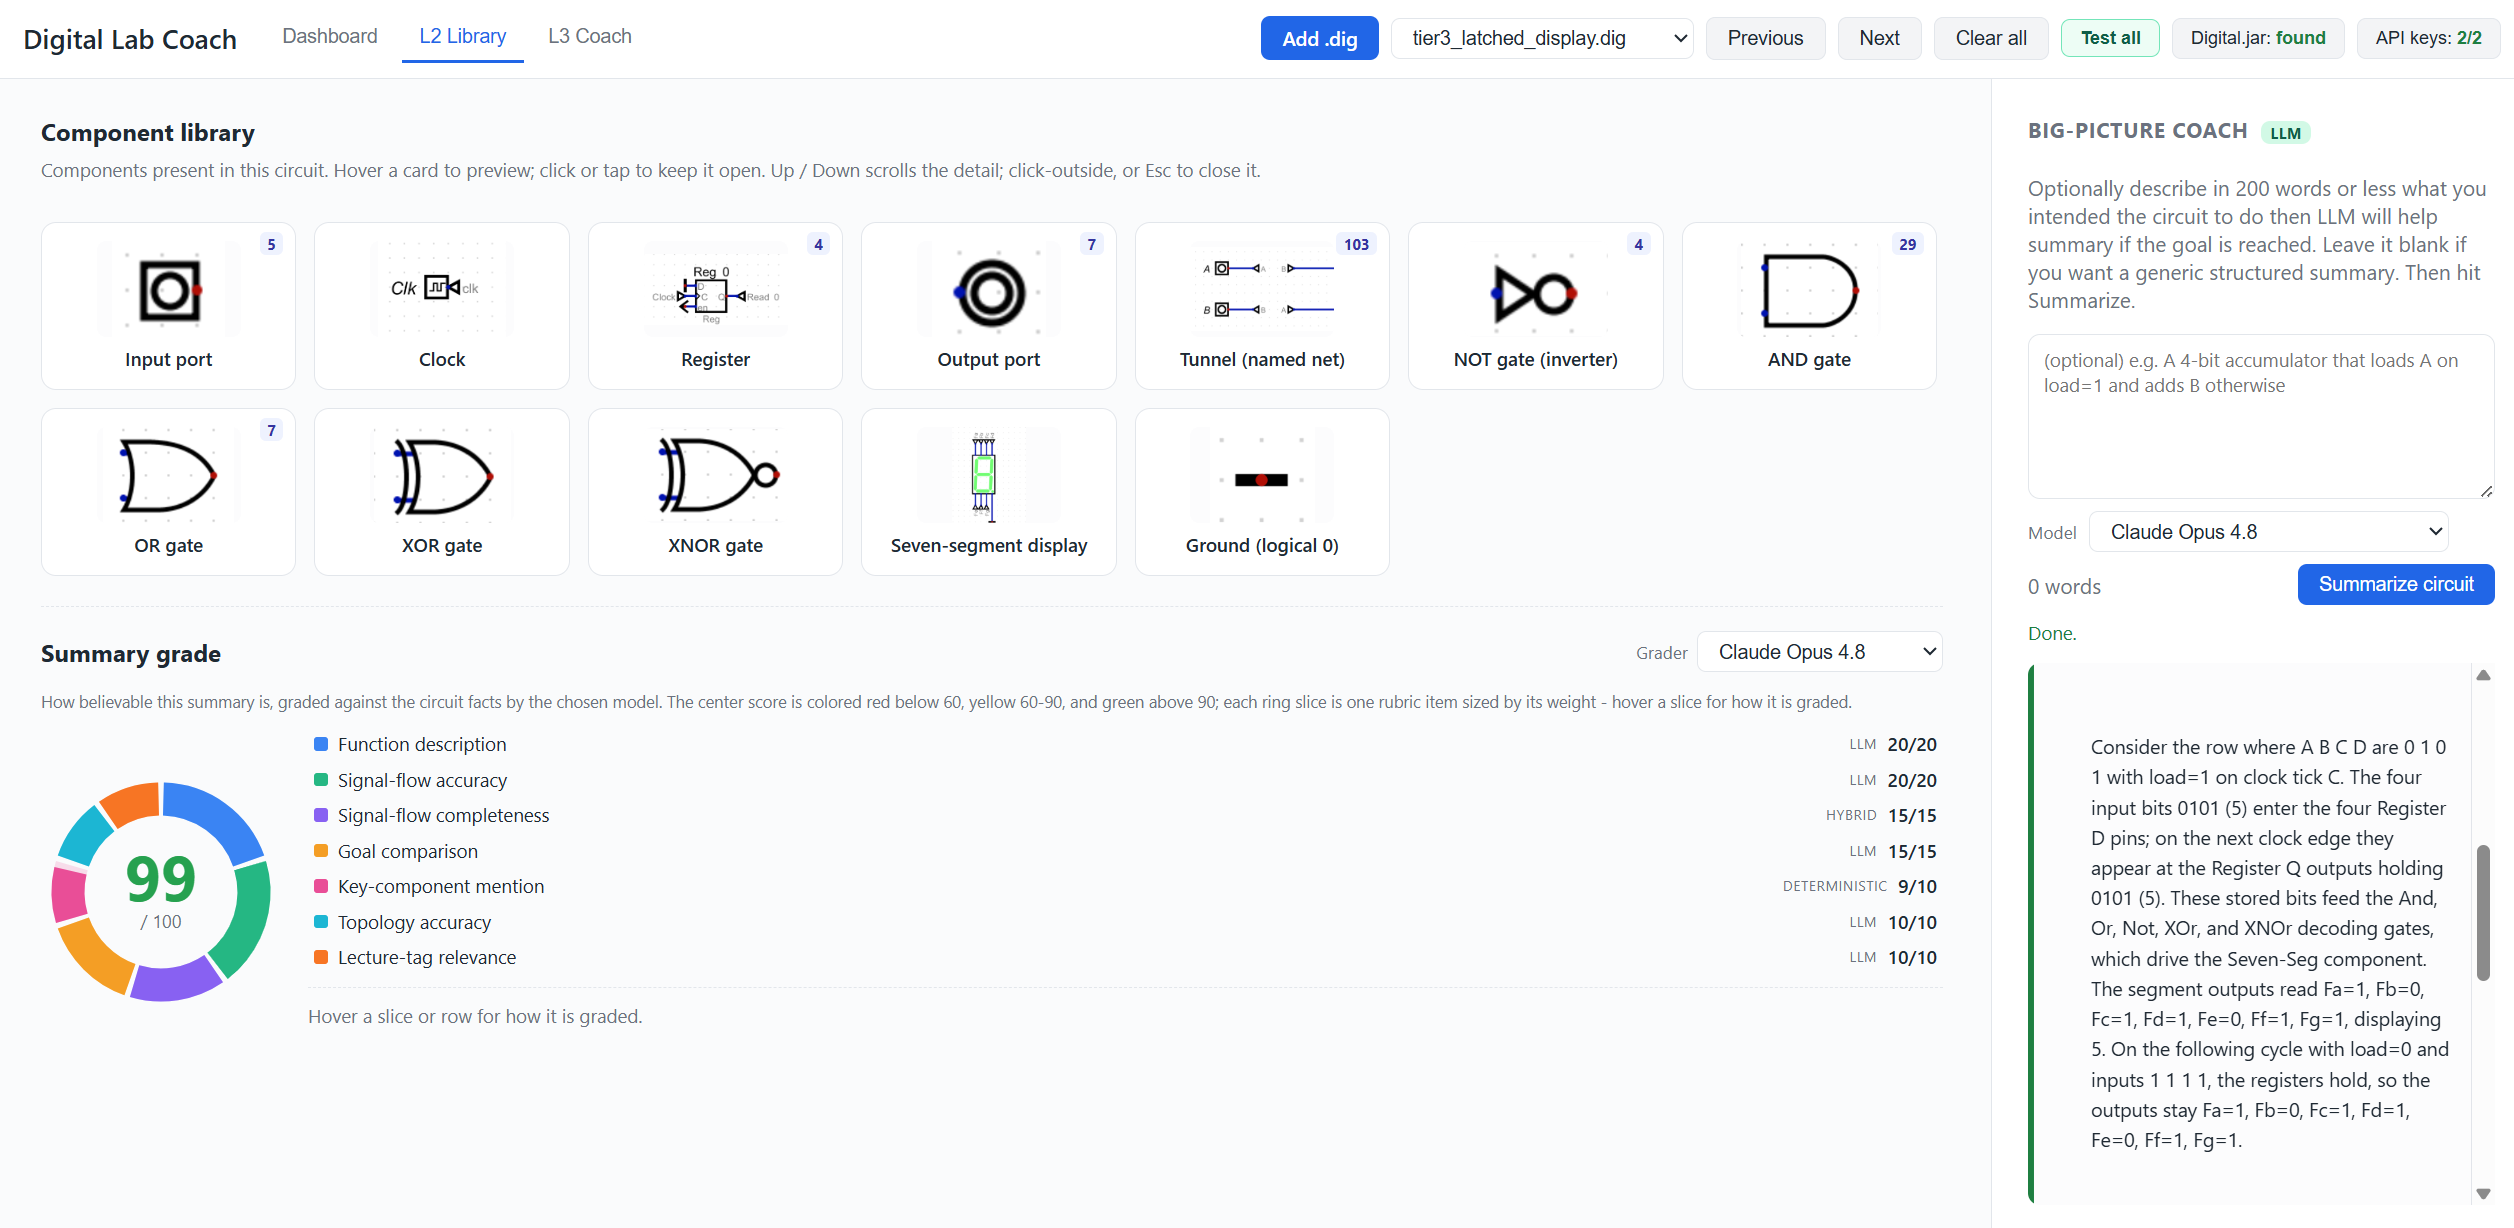
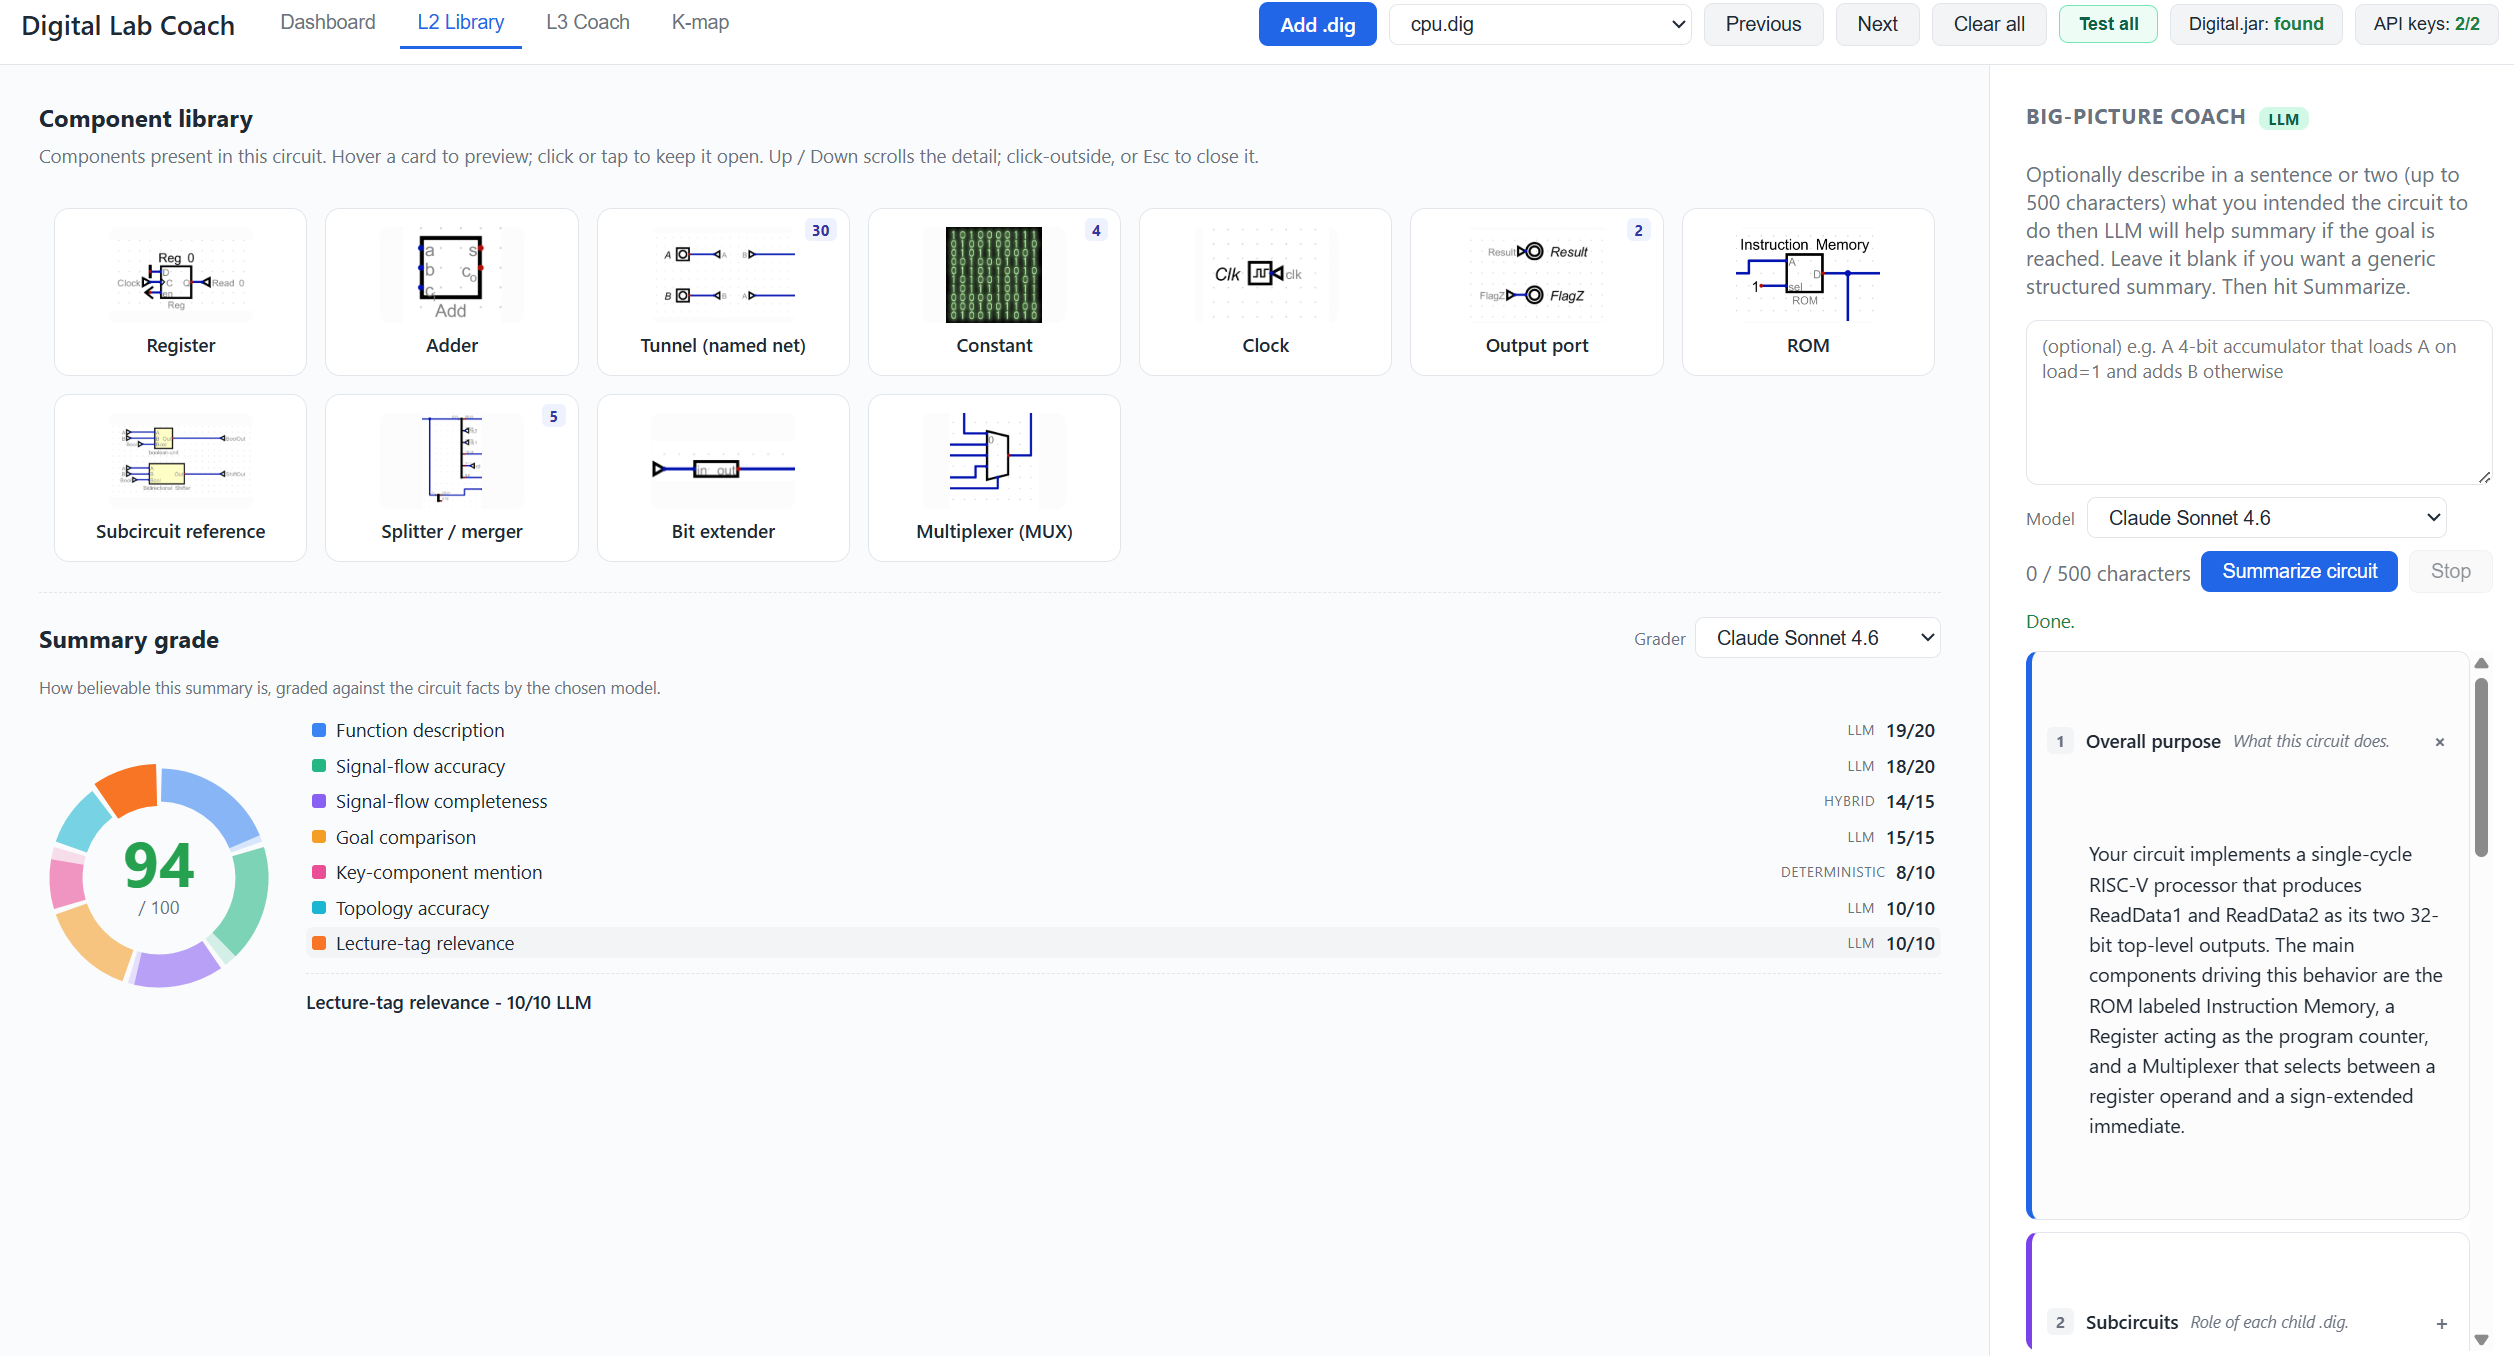
doc: 7/4 update of readme

diff --git a/README.md b/README.md
@@ -4,7 +4,8 @@ A hybrid deterministic-checker + LLM feedback tool for student debugging
 in Digital circuit simulator labs. Path 1 (external
 companion tool) prototype. 
 
-![Dashboard view of tier3_calculator](docs/screenshots/dashboard.png)
+![Dashboard view of cpu](docs/screenshots/dashboard.png) 
+![Dashboard view of t3 calculator](docs/screenshots/dashboard2.png) 
 
 ## Status
 